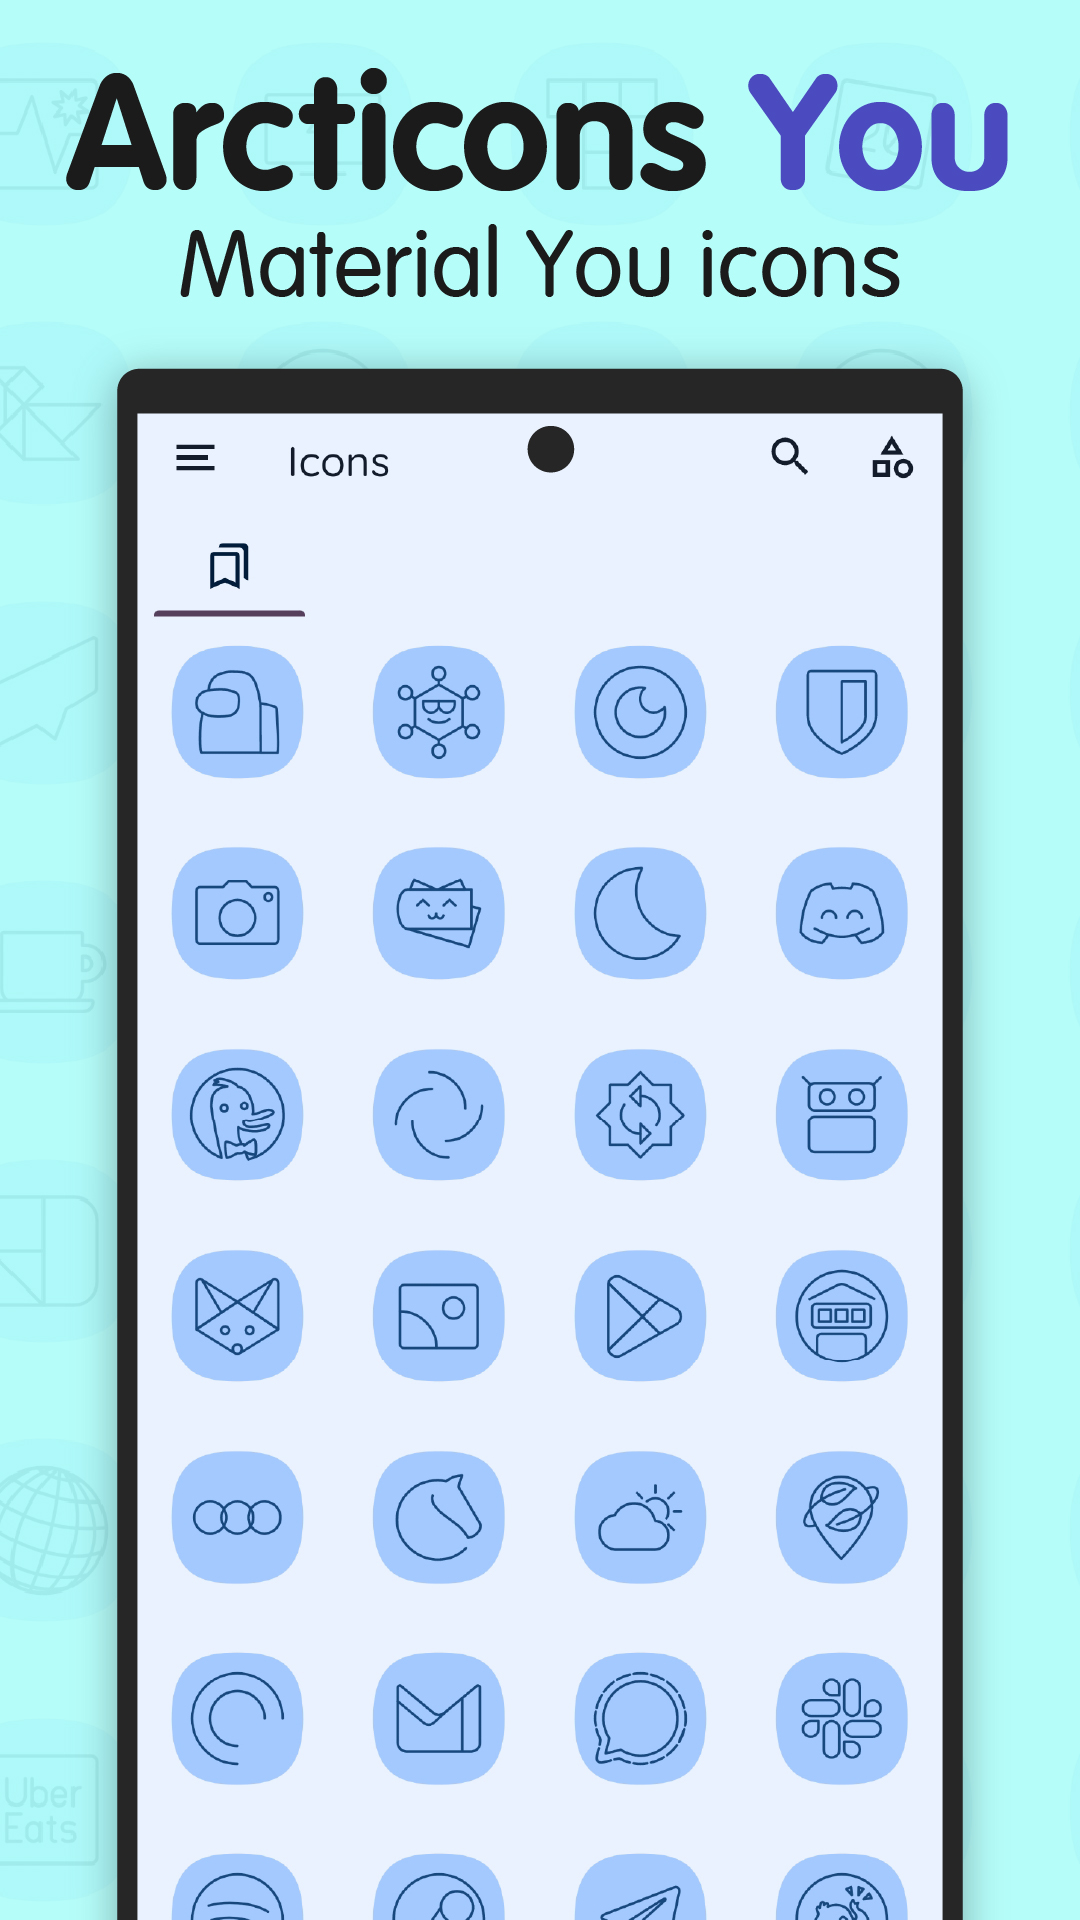
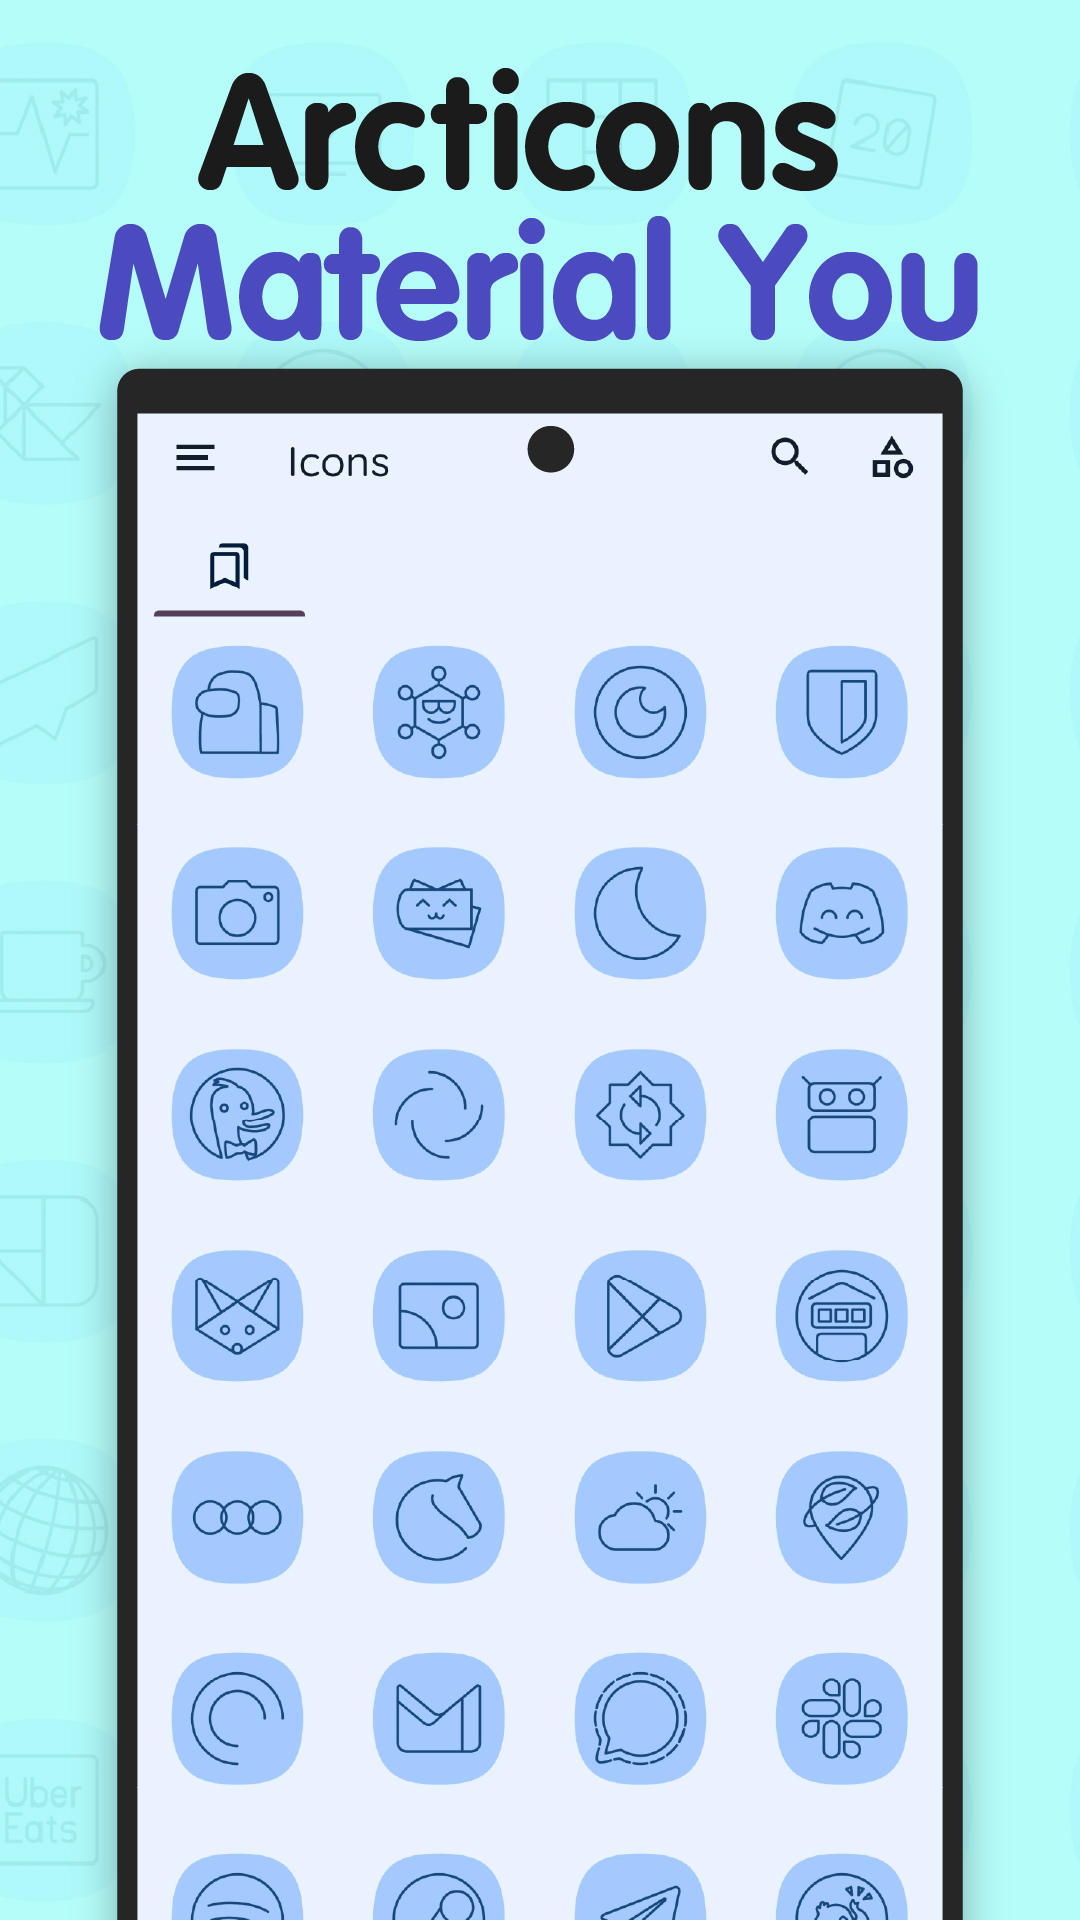
The renamening

Changed region(s): [[0.0611, 0.0312, 0.9472, 0.1875], [0.3972, 0.6562, 0.4278, 0.6875]]

diff --git a/docs/index.html b/docs/index.html
@@ -28,9 +28,6 @@
       <h1>Arcticons</h1>
       <p style="color: #fff; text-align: center;"> A monotone line-based icon pack for Android.</p>
       <ul>
-        <button onclick="window.location.href='#dark';">Dark</button>
-        <button onclick="window.location.href='#light';">Light</button>
-        <button onclick="window.location.href='#you';">You</button>
       </ul>
     </header>
 
@@ -53,7 +50,7 @@
         <div><img src="img/phone_dark.webp" class="phone" width="80%"></div>
         <div class="align-left">
           <div>
-            <h2><span style="font-weight: 400;">Arcticons</span> Dark</h2>
+            <h2><span style="font-weight: 400;">Arcticons</span></h2>
             <p>The first flavor to release in the Arcticons collection.<br>A must have for your dark-themed setup. </p>
           </div>
           <ul>
@@ -85,7 +82,7 @@
         <div id="light" class="grid-content-left">
           <div class="align-right">
             <div>
-              <h2 class="dark"><span style="font-weight: 400;">Arcticons</span> Light</h2>
+              <h2 class="dark"><span style="font-weight: 400;">Arcticons</span> Black</h2>
               <p class="dark">Light mode users, we didn't forget you! Light brings the excact same icons to you, but in black</p>
             </div>
           
@@ -121,7 +118,7 @@
         <div><img src="img/phone_you.webp" class="phone" width="80%"></div>
           <div class="align-left">
             <div>
-              <h2><span style="font-weight: 400;">Arcticons</span> You</h2>
+              <h2><span style="font-weight: 400;">Arcticons</span> Material You</h2>
               <p>The latest flavor in the Arcticons collection, adding Google's Material You to Arcticons. <br>It also changes automatically based on your light/dark theme!</p>
             </div>
 

diff --git a/app/src/main/java/com/donnnno/arcticons/applications/CandyBar.java b/app/src/main/java/com/donnnno/arcticons/applications/CandyBar.java
@@ -101,19 +101,19 @@ public class CandyBar extends CandyBarApplication {
                 new OtherApp(
                         // You can use png file (without extension) inside drawable-nodpi folder or url
                         "arcticons_you",
-                        "Arcticons You",
+                        "Arcticons Material You",
                         "Arcticons, but with a material you flavor!",
                         "https://play.google.com/store/apps/details?id=com.donnnno.arcticons.you.play"),
                 new OtherApp(
                         // You can use png file (without extension) inside drawable-nodpi folder or url
                         "arcticonsdark",
-                        "Arcticons Dark",
+                        "Arcticons",
                         "Arcticons, with white lines",
                         "https://play.google.com/store/apps/details?id=com.donnnno.arcticons"),
                 new OtherApp(
                         // You can use png file (without extension) inside drawable-nodpi folder or url
                         "arcticonslight",
-                        "Arcticons Light",
+                        "Arcticons Black",
                         "Arcticons, with black lines.",
                         "https://play.google.com/store/apps/details?id=com.donnnno.arcticons.light")
         };

diff --git a/README.md b/README.md
@@ -7,7 +7,8 @@
 <img src='https://raw.githubusercontent.com/Donnnno/Arcticons/main/github/header-background.png'>
 
 # Arcticons is a line-based icon pack for Android devices.
-It features a wide range **(over 8000!)** of elegant and consistent icons that are created by a community from all around the world. Arcticons is FOSS (Free and Open-Source Software) and provides many icons for other FOSS apps. 
+With **over 8000 icons**, Arcticons is one of the largest free & open source icon-packs available. Featuring consistent and elegant handcrafted icons, giving you a minimalistic clutter-free experience on your phone.
+Powered by a community of icon creators all around the world!
 <br>
 <br>
 <br>
@@ -25,7 +26,7 @@ It features a wide range **(over 8000!)** of elegant and consistent icons that a
 
 ## Donate
 
-Providing a free icon-pack for everyone can cost a lot of time and effort. So if you like our work, consider donating!
+Providing a free icon-pack for everyone can cost a lot of time and effort. So if you like our work, consider donating!
 
 |Paypal|Liberapay|Ko-Fi|
 |---|---|---|

diff --git a/CHANGELOG.md b/CHANGELOG.md
@@ -1,3 +1,10 @@
+### 8.x.x - The Renamening
+###### Released: TBA
+* 🔠  Sometimes you have a good idea, and sometimes it just doesn't work that good in practice. That was the case with the Arcticons names. Dark and Light stands for Darkmode and Lightmode, but that was confusing, because it wasn't in the title. We've renamed it to Arcticons, Arcticons Black, and Arcticons Material You.
+* 🎉 X new and updated icons! (thanks ...)
+* ✨ Updates to make sure lots of apps work again.
+* 🔥 X icons in total!
+
 ### 8.0.6 - Anniversary update
 ###### Released: Nov 8, 2023
 * 🎈 Arcticons turns 3 years old, thanks everyone for being with us, making this possible!
